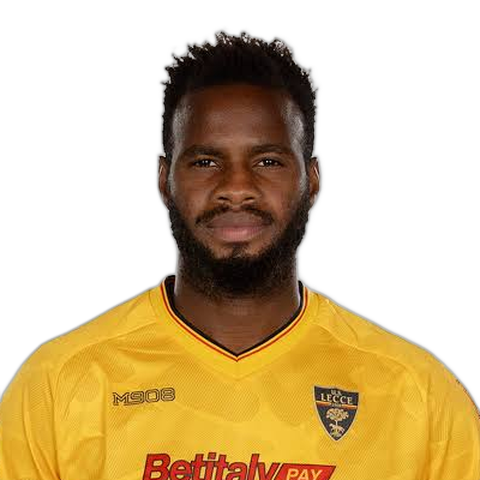
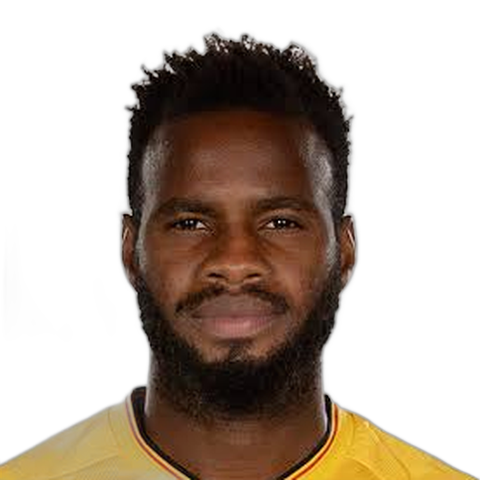
Onze type : Saintfiet, Danté, Coulibaly et Fofana recadrés ; StatsBomb cité seulement chez Chelle
Claude-Session: https://claude.ai/code/session_01HrXdBFJwxbhqadNHYHNDER

diff --git a/visuels/posts_p4.py b/visuels/posts_p4.py
@@ -49,5 +49,5 @@ for k,(coach,per,h2) in enumerate((('Chelle','2022-2024','ÉRIC CHELLE'),('Saint
     body,sysm,n=terrain(coach)
     body+=f'<div class="leg" style="top:1130px;font-size:22px"><span>ENTRE PARENTHÈSES : TITULARISATIONS SUR {n} MATCHS · SYSTÈME : {sysm}</span></div>'
     open(ICI/f'_p4_{k}.html','w',encoding='utf-8').write(page(f'MALI · {per} · <b>{n} MATCHS OFFICIELS</b>','LE ONZE TYPE',h2,'',photo_coach(coach)+body,
-      'Compos : deux sources par match (11v11, Eurosport, FotMob, presse) · CAN 2023 : StatsBomb · Amicaux exclus'))
+      'Compos : deux sources par match (11v11, Eurosport, FotMob, presse)'+(' · CAN 2023 : StatsBomb' if coach=='Chelle' else '')+' · Amicaux exclus'))
 for c in ('Chelle','Saintfiet'): print(c, NB[c], [(cle,T[c][cle]) for _,cle,_,_ in ONZE[c][1]])

diff --git a/visuels/photos/SOURCES.md b/visuels/photos/SOURCES.md
@@ -22,7 +22,7 @@
 | kiki-kouyate (id du registre) | Boubakar « Kiki » Kouyaté | kiki-kouyate.png (original : kiki-kouyate_original.png) | visuel officiel « Welcome » d'Al-Khaleej Club (Arabie saoudite), repris sur Facebook (Yiriba Sport 2.0, 15 juin 2026), capture envoyée par Diaby le 2026-10-16 | Al-Khaleej Club | non libre : à retirer si demandé | 2026-06 | recadrée sur la tête (480 px), fond retiré (rembg) |
 | sikou-niakate (id du registre) | Sikou Niakaté | sikou-niakate.png (original : sikou-niakate_original.png) | photo officielle de présentation du SC Braga (scbraga.pt), fichier envoyé par Diaby le 2026-10-16 | SC Braga | photo officielle du club, non libre : à retirer si le club le demande | maillot 2025-26 | recadrée sur la tête (360 px → 480 px), fond retiré (rembg), reste du poteau au-dessus de la tête effacé |
 | lassana-coulibaly (id du registre) | Lassana Coulibaly | lassana-coulibaly.png (original : lassana-coulibaly_original.png) | portrait officiel de l'US Lecce (maillot M908, saison 2024-25), fichier envoyé par Diaby le 2026-10-16 ; la fiche actuelle est https://uslecce.it/giocatori/lassana-coulibaly-3/ (maillot adidas 2026-27) | US Lecce | photo officielle du club, non libre : à retirer si le club le demande | 2024-25 | recadrée sur la tête et les épaules (400 px → 480 px), fond retiré (rembg) |
-| amadou-dante (id du registre) | Amadou Danté | amadou-dante.png (original : amadou-dante_original.png) | portrait officiel 2026 du FC Zbrojovka Brno, fiche https://fczbrno.cz/player/2137/MUZ (fichier fczbrno.esports.cz/foto/2026_MUZ-profil/Dante-Amadou.png), envoyé par Diaby le 2026-10-16 | FC Zbrojovka Brno | photo officielle du club, non libre : à retirer si le club le demande | 2026 | recadrée sur la tête et les épaules (410 px → 480 px), fond transparent d'origine ; pose bras tendu : main et avant-bras effacés à la demande de Diaby (le 2026-10-16), épaule gauche détourée |
+| amadou-dante (id du registre) | Amadou Danté | amadou-dante.png (original : amadou-dante_original.png) | portrait officiel 2026 du FC Zbrojovka Brno, fiche https://fczbrno.cz/player/2137/MUZ (fichier fczbrno.esports.cz/foto/2026_MUZ-profil/Dante-Amadou.png), envoyé par Diaby le 2026-10-16 | FC Zbrojovka Brno | photo officielle du club, non libre : à retirer si le club le demande | 2026 | recadrée sur la tête (290 px → 480 px), fond transparent d'origine ; pose bras tendu : main et avant-bras effacés à la demande de Diaby (le 2026-10-16), épaule gauche détourée |
 | adama-traore-malouda (id du registre) | Adama Traoré « Malouda » (milieu, né le 5 juin 1995 à Bamako) | adama-traore-malouda.png (original : adama-traore-malouda_original.png) | portrait en maillot bleu Kappa d'un club non identifié (écusson « AL… »), fichier envoyé par Diaby le 2026-10-16 ; identité confirmée par Diaby ; sa fiche officielle reste https://www.genclerbirligi.org.tr/a-takim/futbolcular/adama-traore | origine inconnue | non libre, provenance à confirmer : à remplacer si besoin par la photo de Gençlerbirliği | inconnue | recadrée sur la tête seule (sans l'écusson), fond retiré (rembg) |
 | eric-chelle (coach) | Éric Chelle | eric-chelle.png (original : eric-chelle_original.jpg) | photo de match pendant la CAN 2023 (Côte d'Ivoire), tenue d'entraînement de la FEMAFOOT, fichier envoyé par Diaby le 2026-10-16 | inconnu (probablement agence de presse) | non libre, provenance à confirmer : à retirer si demandé | 2024-01 | recadrée sur la tête (310 px → 480 px), fond retiré (rembg) |
 | tom-saintfiet (coach) | Tom Saintfiet | tom-saintfiet.png (original : tom-saintfiet_original.jpg) | photo prise lors d'un événement AFC (badge « the-AFC.com »), fichier envoyé par Diaby le 2026-10-16 ; pas en tenue du Mali | inconnu | non libre, provenance à confirmer : à remplacer par une photo avec le Mali si on en trouve une | inconnue | fond retiré (rembg sur l'image entière), recadrée sur la tête |
